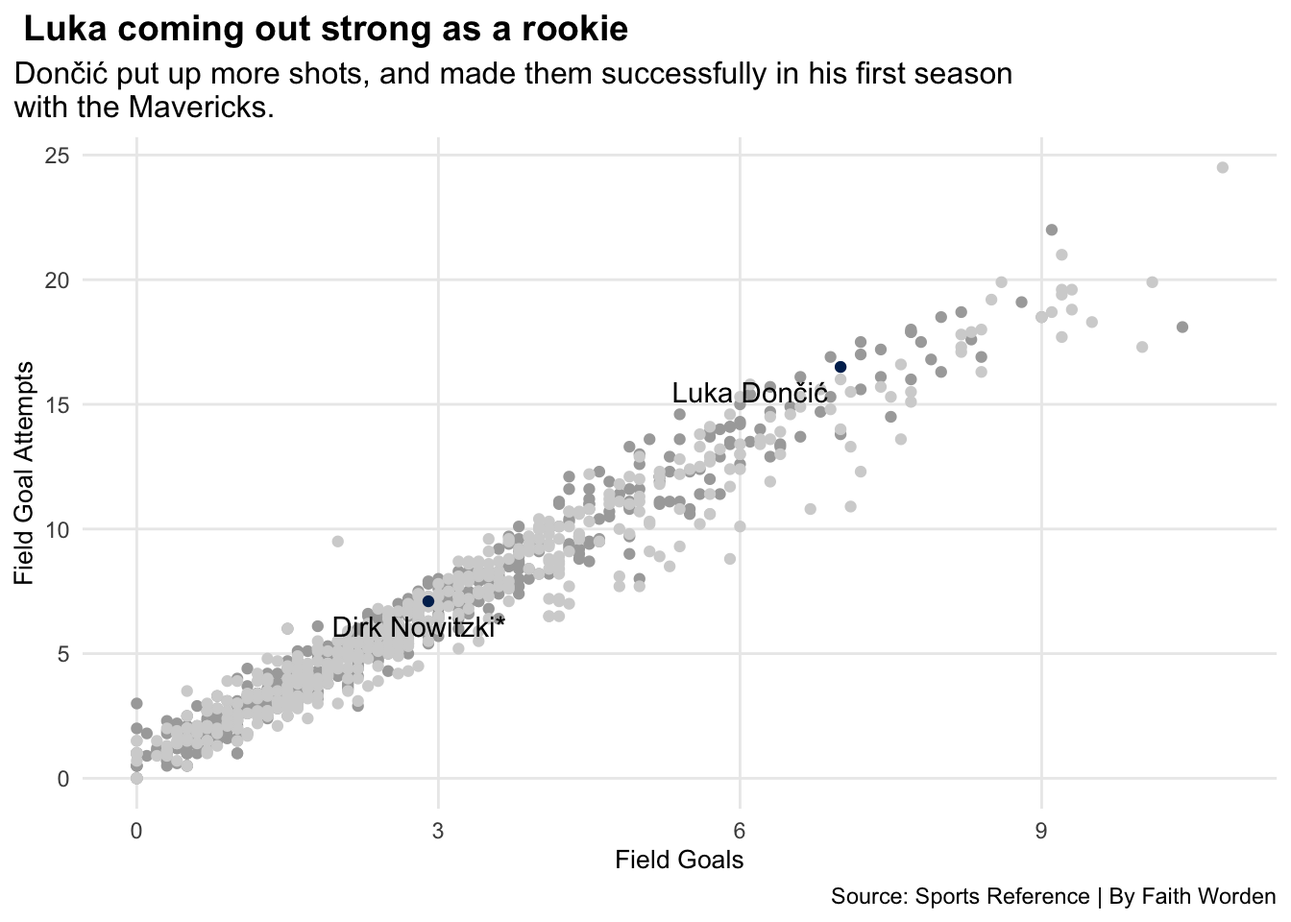
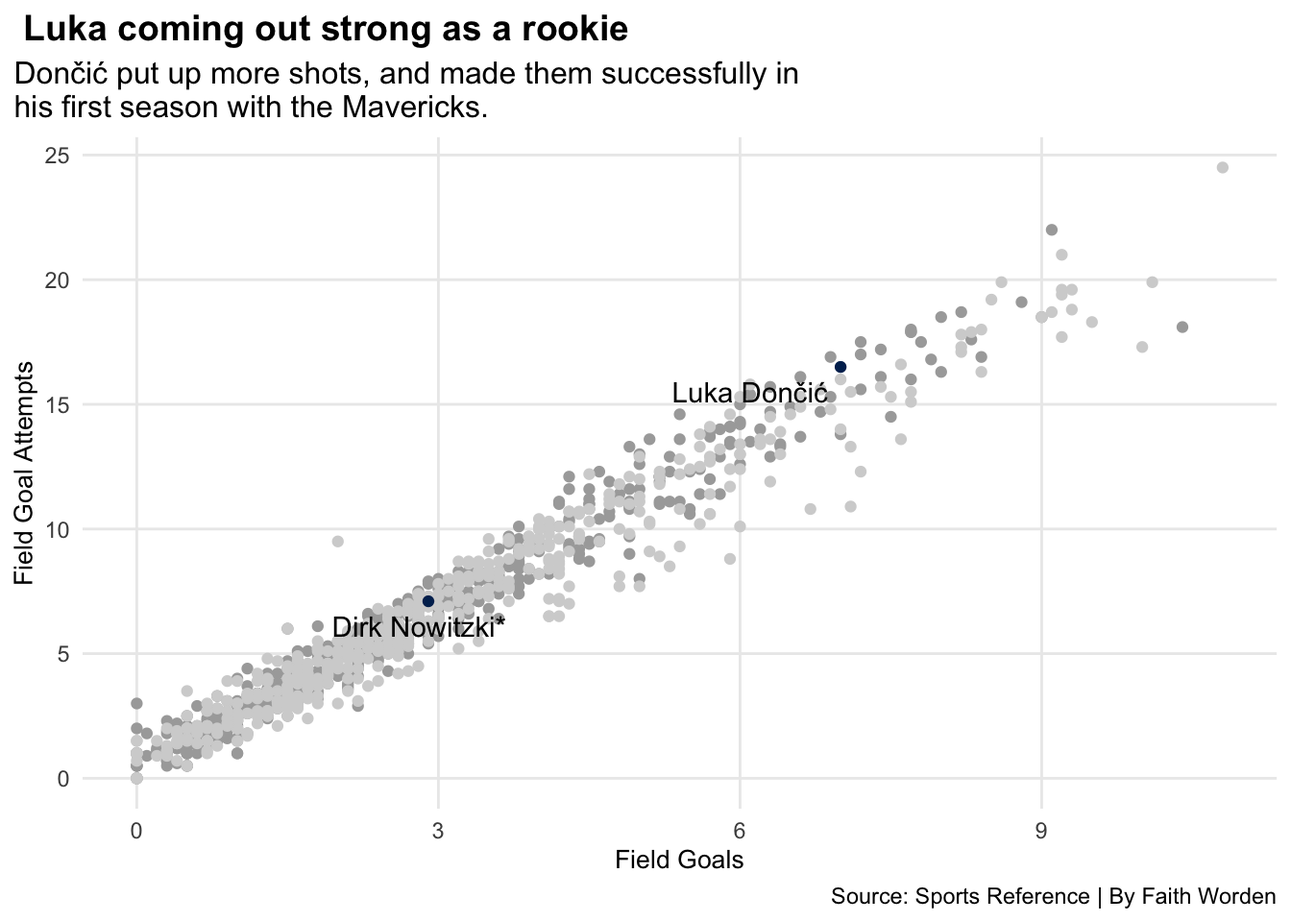
newprojmavs

Changed region(s): [[0.0, 0.0938, 0.375, 0.125], [0.625, 0.0625, 0.7812, 0.0938]]

diff --git a/posts/mavericks-is-luka-the-new-dirk/index.html b/posts/mavericks-is-luka-the-new-dirk/index.html
@@ -9,7 +9,7 @@
 <meta name="author" content="Faith Worden">
 <meta name="dcterms.date" content="2023-12-01">
 
-<title>Faith Worden’s Sports Data Blog - Change title</title>
+<title>Faith Worden’s Sports Data Blog - Can Luka Dončić fill the shoes of Mavericks legend Dirk Nowitzki?</title>
 <style>
 code{white-space: pre-wrap;}
 span.smallcaps{font-variant: small-caps;}
@@ -137,7 +137,7 @@ pre > code.sourceCode > span > a:first-child::before { text-decoration: underlin
 <header id="title-block-header" class="quarto-title-block default page-columns page-full">
   <div class="quarto-title-banner page-columns page-full">
     <div class="quarto-title column-body">
-      <h1 class="title">Change title</h1>
+      <h1 class="title">Can Luka Dončić fill the shoes of Mavericks legend Dirk Nowitzki?</h1>
                                 <div class="quarto-categories">
                 <div class="quarto-category">sports</div>
                 <div class="quarto-category">data</div>
@@ -177,14 +177,14 @@ pre > code.sourceCode > span > a:first-child::before { text-decoration: underlin
 
 
 
-<p>Here is my project. I am still finishing it out my copy and one of my codes. Here it is.</p>
+<p>Dirk Nowitzki was just a kid from Germany who grew up playing basketball. Nowitzki made the move to the states in 1998, when he was chosen as the ninth pick by the Milwaukee Bucks. His career was spent with the Dallas Mavericks after an immediate trade. Nowitzki then played 21 seasons for this franchise, and is the only NBA player to have done this. Nowtizki is known to be one of the greatest players to have ever played for the Mavericks, and to have played in the NBA. With several accomplishments and records, such as leading Dallas to their first ever championship in 2011 and the Basketball Hall of Fame, he’s had a great impact. In Dirk’s last season played, he was joined by Slovenia-native Luka Dončić. Dončić, the third pick in the 2018 NBA draft, had high expectations. He was drafted by the Atlanta Hawks, but like Nowitzki, had an immediate trade over to Dallas. In his sixth season, Dončić has already proved himself as the team’s MVP. Averaging 27.8 points per game and helping lead the team to the final four 2022, he has shown a lot of leadership and pulled out crazy stats for the team. A topic of conversation within NBA fans: can Dončić be the next Nowitzki for the team? Where is he at compared to Nowitzki’s performance? Both foreign players who entered the NBA with no college experience, a lot of people will put them head to head. Let’s dive into the question, is Dončić the new Nowitzki?</p>
 <div class="cell">
 <details>
 <summary>Code</summary>
 <div class="sourceCode cell-code" id="cb1"><pre class="sourceCode r code-with-copy"><code class="sourceCode r"><span id="cb1-1"><a href="#cb1-1" aria-hidden="true" tabindex="-1"></a><span class="fu">library</span>(tidyverse)</span>
 <span id="cb1-2"><a href="#cb1-2" aria-hidden="true" tabindex="-1"></a><span class="fu">library</span>(waffle)</span>
 <span id="cb1-3"><a href="#cb1-3" aria-hidden="true" tabindex="-1"></a><span class="fu">library</span>(ggalt)</span>
-<span id="cb1-4"><a href="#cb1-4" aria-hidden="true" tabindex="-1"></a></span>
+<span id="cb1-4"><a href="#cb1-4" aria-hidden="true" tabindex="-1"></a><span class="fu">library</span>(patchwork)</span>
 <span id="cb1-5"><a href="#cb1-5" aria-hidden="true" tabindex="-1"></a></span>
 <span id="cb1-6"><a href="#cb1-6" aria-hidden="true" tabindex="-1"></a>rookieluka <span class="ot">&lt;-</span> <span class="fu">read_csv</span>(<span class="st">"1819nba.csv"</span>) <span class="sc">|&gt;</span></span>
 <span id="cb1-7"><a href="#cb1-7" aria-hidden="true" tabindex="-1"></a><span class="fu">filter</span>(Player <span class="sc">==</span> <span class="st">"Luka Dončić"</span>)</span>
@@ -204,8 +204,8 @@ pre > code.sourceCode > span > a:first-child::before { text-decoration: underlin
 <span id="cb1-21"><a href="#cb1-21" aria-hidden="true" tabindex="-1"></a>  <span class="fu">geom_point</span>(<span class="at">data=</span>rookieluka, <span class="fu">aes</span>(<span class="at">x=</span>FG, <span class="at">y=</span>FGA), <span class="at">color=</span><span class="st">"#002B5E"</span>) <span class="sc">+</span></span>
 <span id="cb1-22"><a href="#cb1-22" aria-hidden="true" tabindex="-1"></a>   <span class="fu">geom_text</span>(<span class="at">data=</span>rookiedirk, <span class="fu">aes</span>(<span class="at">x=</span>FG<span class="fl">-.09</span>, <span class="at">y=</span>FGA<span class="dv">-1</span>, <span class="at">label=</span>Player)) <span class="sc">+</span> </span>
 <span id="cb1-23"><a href="#cb1-23" aria-hidden="true" tabindex="-1"></a>  <span class="fu">geom_text</span>(<span class="at">data=</span>rookieluka, <span class="fu">aes</span>(<span class="at">x=</span>FG<span class="fl">-.9</span>, <span class="at">y=</span>FGA<span class="dv">-1</span>, <span class="at">label=</span>Player)) <span class="sc">+</span></span>
-<span id="cb1-24"><a href="#cb1-24" aria-hidden="true" tabindex="-1"></a><span class="fu">labs</span>(<span class="at">x=</span><span class="st">"Field Goals"</span>, <span class="at">y=</span><span class="st">"Field Goal Attempts"</span>, <span class="at">title=</span><span class="st">" Luka coming out strong as a rookie"</span>, <span class="at">subtitle=</span><span class="st">"Dončić put up more shots, and made them successfully in his first season</span></span>
-<span id="cb1-25"><a href="#cb1-25" aria-hidden="true" tabindex="-1"></a><span class="st">with the Mavericks."</span>,  <span class="at">caption=</span><span class="st">"Source: Sports Reference | By Faith Worden"</span>) <span class="sc">+</span></span>
+<span id="cb1-24"><a href="#cb1-24" aria-hidden="true" tabindex="-1"></a><span class="fu">labs</span>(<span class="at">x=</span><span class="st">"Field Goals"</span>, <span class="at">y=</span><span class="st">"Field Goal Attempts"</span>, <span class="at">title=</span><span class="st">" Luka coming out strong as a rookie"</span>, <span class="at">subtitle=</span><span class="st">"Dončić put up more shots, and made them successfully in</span></span>
+<span id="cb1-25"><a href="#cb1-25" aria-hidden="true" tabindex="-1"></a><span class="st">his first season with the Mavericks."</span>,  <span class="at">caption=</span><span class="st">"Source: Sports Reference | By Faith Worden"</span>) <span class="sc">+</span></span>
 <span id="cb1-26"><a href="#cb1-26" aria-hidden="true" tabindex="-1"></a>  <span class="fu">theme_minimal</span> () <span class="sc">+</span></span>
 <span id="cb1-27"><a href="#cb1-27" aria-hidden="true" tabindex="-1"></a>  <span class="fu">theme</span>(</span>
 <span id="cb1-28"><a href="#cb1-28" aria-hidden="true" tabindex="-1"></a>  <span class="at">plot.title =</span> <span class="fu">element_text</span>(<span class="at">size =</span> <span class="dv">14</span>, <span class="at">face =</span> <span class="st">"bold"</span>),</span>
@@ -219,47 +219,237 @@ pre > code.sourceCode > span > a:first-child::before { text-decoration: underlin
 <p><img src="index_files/figure-html/unnamed-chunk-1-1.png" class="img-fluid" width="672"></p>
 </div>
 </div>
-<p>First chart. Talk about first chart here.</p>
+<p>Comparing both their rookie seasons, Luka was putting up way more shots than Dirk, and making them successfully. Luka’s field goals per game is at 7, and Dirk’s was at 2.9. Dončić is leading in putting shots up and making them, along with being in the top half of other players in the NBA for field goals as well. To note, Luka’s first season was played with Nowitzki in his last season of his career.</p>
 <div class="cell">
 <details>
 <summary>Code</summary>
-<div class="sourceCode cell-code" id="cb2"><pre class="sourceCode r code-with-copy"><code class="sourceCode r"><span id="cb2-1"><a href="#cb2-1" aria-hidden="true" tabindex="-1"></a><span class="fu">library</span>(tidyverse)</span>
-<span id="cb2-2"><a href="#cb2-2" aria-hidden="true" tabindex="-1"></a><span class="fu">library</span>(waffle)</span>
-<span id="cb2-3"><a href="#cb2-3" aria-hidden="true" tabindex="-1"></a><span class="fu">library</span>(ggalt)</span>
-<span id="cb2-4"><a href="#cb2-4" aria-hidden="true" tabindex="-1"></a></span>
-<span id="cb2-5"><a href="#cb2-5" aria-hidden="true" tabindex="-1"></a></span>
-<span id="cb2-6"><a href="#cb2-6" aria-hidden="true" tabindex="-1"></a>luka <span class="ot">&lt;-</span> <span class="fu">c</span>(<span class="st">"2P"</span><span class="ot">=</span><span class="dv">2284</span>, <span class="st">"3P"</span><span class="ot">=</span><span class="dv">978</span>, <span class="dv">7907</span>)</span>
-<span id="cb2-7"><a href="#cb2-7" aria-hidden="true" tabindex="-1"></a>dirk <span class="ot">&lt;-</span> <span class="fu">c</span>(<span class="st">"2P"</span><span class="ot">=</span><span class="dv">9187</span>, <span class="st">"3P"</span><span class="ot">=</span><span class="dv">1982</span>)</span>
-<span id="cb2-8"><a href="#cb2-8" aria-hidden="true" tabindex="-1"></a></span>
-<span id="cb2-9"><a href="#cb2-9" aria-hidden="true" tabindex="-1"></a><span class="fu">iron</span>(</span>
-<span id="cb2-10"><a href="#cb2-10" aria-hidden="true" tabindex="-1"></a><span class="fu">waffle</span>(luka<span class="sc">/</span><span class="dv">100</span>,</span>
-<span id="cb2-11"><a href="#cb2-11" aria-hidden="true" tabindex="-1"></a>        <span class="at">rows =</span> <span class="dv">5</span>,</span>
-<span id="cb2-12"><a href="#cb2-12" aria-hidden="true" tabindex="-1"></a>        <span class="at">title=</span><span class="st">"Luka's Career Points"</span>,</span>
-<span id="cb2-13"><a href="#cb2-13" aria-hidden="true" tabindex="-1"></a>       <span class="at">xlab=</span> <span class="st">"Luka Dončić | 1 square = 100 shots"</span>,</span>
-<span id="cb2-14"><a href="#cb2-14" aria-hidden="true" tabindex="-1"></a>        <span class="at">colors =</span> <span class="fu">c</span>(<span class="st">"#002B5E"</span>, <span class="st">"#B8C4CA"</span>, <span class="st">"#FFFFFF"</span>)) <span class="sc">+</span></span>
-<span id="cb2-15"><a href="#cb2-15" aria-hidden="true" tabindex="-1"></a>     <span class="fu">labs</span>(</span>
-<span id="cb2-16"><a href="#cb2-16" aria-hidden="true" tabindex="-1"></a>     <span class="at">title=</span><span class="st">"The difference 21 seasons makes"</span>, </span>
-<span id="cb2-17"><a href="#cb2-17" aria-hidden="true" tabindex="-1"></a>     <span class="at">subtitle=</span><span class="st">"Luka's putting up great numbers, but don't give him </span></span>
-<span id="cb2-18"><a href="#cb2-18" aria-hidden="true" tabindex="-1"></a><span class="st">all the credit yet."</span>) <span class="sc">+</span></span>
-<span id="cb2-19"><a href="#cb2-19" aria-hidden="true" tabindex="-1"></a>   <span class="fu">theme</span>(</span>
-<span id="cb2-20"><a href="#cb2-20" aria-hidden="true" tabindex="-1"></a>    <span class="at">plot.title =</span> <span class="fu">element_text</span>(<span class="at">size =</span> <span class="dv">14</span>, <span class="at">face =</span> <span class="st">"bold"</span>),</span>
-<span id="cb2-21"><a href="#cb2-21" aria-hidden="true" tabindex="-1"></a>    <span class="at">axis.title =</span> <span class="fu">element_text</span>(<span class="at">size =</span> <span class="dv">10</span>),</span>
-<span id="cb2-22"><a href="#cb2-22" aria-hidden="true" tabindex="-1"></a>    <span class="at">axis.title.y =</span> <span class="fu">element_blank</span>(),</span>
-<span id="cb2-23"><a href="#cb2-23" aria-hidden="true" tabindex="-1"></a>    <span class="at">plot.subtitle =</span> <span class="fu">element_text</span>(<span class="at">size=</span><span class="dv">12</span>), </span>
-<span id="cb2-24"><a href="#cb2-24" aria-hidden="true" tabindex="-1"></a>  ),</span>
-<span id="cb2-25"><a href="#cb2-25" aria-hidden="true" tabindex="-1"></a><span class="fu">waffle</span>(dirk<span class="sc">/</span><span class="dv">100</span>,</span>
-<span id="cb2-26"><a href="#cb2-26" aria-hidden="true" tabindex="-1"></a>        <span class="at">rows =</span> <span class="dv">5</span>,</span>
-<span id="cb2-27"><a href="#cb2-27" aria-hidden="true" tabindex="-1"></a>        <span class="at">xlab=</span> <span class="st">"Dirk Nowitzki | 1 square = 100 shots"</span>, </span>
-<span id="cb2-28"><a href="#cb2-28" aria-hidden="true" tabindex="-1"></a>        <span class="at">colors =</span> <span class="fu">c</span>(<span class="st">"#002B5E"</span>, <span class="st">"#B8C4CA"</span>)) <span class="sc">+</span></span>
-<span id="cb2-29"><a href="#cb2-29" aria-hidden="true" tabindex="-1"></a>       <span class="fu">labs</span>(</span>
-<span id="cb2-30"><a href="#cb2-30" aria-hidden="true" tabindex="-1"></a>         <span class="at">caption=</span><span class="st">"Source: Sports Reference | By Faith Worden"</span>)</span>
-<span id="cb2-31"><a href="#cb2-31" aria-hidden="true" tabindex="-1"></a>)</span></code><button title="Copy to Clipboard" class="code-copy-button"><i class="bi"></i></button></pre></div>
+<div class="sourceCode cell-code" id="cb2"><pre class="sourceCode r code-with-copy"><code class="sourceCode r"><span id="cb2-1"><a href="#cb2-1" aria-hidden="true" tabindex="-1"></a><span class="fu">read_csv</span>(<span class="st">"playertotals0809.csv"</span>)</span></code><button title="Copy to Clipboard" class="code-copy-button"><i class="bi"></i></button></pre></div>
+</details>
+<div class="cell-output cell-output-stdout">
+<pre><code># A tibble: 500 × 30
+      Rk Player      Pos     Age Tm        G    GS    MP    FG   FGA `FG%`  `3P`
+   &lt;dbl&gt; &lt;chr&gt;       &lt;chr&gt; &lt;dbl&gt; &lt;chr&gt; &lt;dbl&gt; &lt;dbl&gt; &lt;dbl&gt; &lt;dbl&gt; &lt;dbl&gt; &lt;dbl&gt; &lt;dbl&gt;
+ 1     1 Alex Acker  SG       26 TOT      25     0   199    30    76 0.395     7
+ 2     1 Alex Acker  SG       26 DET       7     0    20     4    11 0.364     0
+ 3     1 Alex Acker  SG       26 LAC      18     0   179    26    65 0.4       7
+ 4     2 Hassan Ada… SG       24 TOR      12     0    52     4    13 0.308     0
+ 5     3 Arron Affl… SG       23 DET      74     8  1234   131   300 0.437    43
+ 6     4 Maurice Ag… SG       24 NJN      20     0    97    15    43 0.349     0
+ 7     5 Blake Ahea… PG       24 SAS       3     0    19     2     6 0.333     2
+ 8     6 Alexis Aji… PF       20 CHA      31     4   182    25    69 0.362     0
+ 9     7 LaMarcus A… PF       23 POR      81    81  3004   601  1243 0.484     7
+10     8 Joe Alexan… SF       22 MIL      59     0   716   102   245 0.416    16
+# ℹ 490 more rows
+# ℹ 18 more variables: `3PA` &lt;dbl&gt;, `3P%` &lt;dbl&gt;, `2P` &lt;dbl&gt;, `2PA` &lt;dbl&gt;,
+#   `2P%` &lt;dbl&gt;, `eFG%` &lt;dbl&gt;, FT &lt;dbl&gt;, FTA &lt;dbl&gt;, `FT%` &lt;dbl&gt;, ORB &lt;dbl&gt;,
+#   DRB &lt;dbl&gt;, TRB &lt;dbl&gt;, AST &lt;dbl&gt;, STL &lt;dbl&gt;, BLK &lt;dbl&gt;, TOV &lt;dbl&gt;, PF &lt;dbl&gt;,
+#   PTS &lt;dbl&gt;</code></pre>
+</div>
+<details>
+<summary>Code</summary>
+<div class="sourceCode cell-code" id="cb4"><pre class="sourceCode r code-with-copy"><code class="sourceCode r"><span id="cb4-1"><a href="#cb4-1" aria-hidden="true" tabindex="-1"></a><span class="fu">read_csv</span>(<span class="st">"playertotals0910.csv"</span>)</span></code><button title="Copy to Clipboard" class="code-copy-button"><i class="bi"></i></button></pre></div>
+</details>
+<div class="cell-output cell-output-stdout">
+<pre><code># A tibble: 500 × 30
+      Rk Player      Pos     Age Tm        G    GS    MP    FG   FGA `FG%`  `3P`
+   &lt;dbl&gt; &lt;chr&gt;       &lt;chr&gt; &lt;dbl&gt; &lt;chr&gt; &lt;dbl&gt; &lt;dbl&gt; &lt;dbl&gt; &lt;dbl&gt; &lt;dbl&gt; &lt;dbl&gt; &lt;dbl&gt;
+ 1     1 Arron Affl… SG       24 DEN      82    75  2221   272   585 0.465   108
+ 2     2 Alexis Aji… C        21 CHA       6     0    30     5    10 0.5       0
+ 3     3 LaMarcus A… PF       24 POR      78    78  2922   579  1169 0.495     5
+ 4     4 Joe Alexan… SF       23 CHI       8     0    29     1     6 0.167     0
+ 5     5 Malik Allen PF       31 DEN      51     3   456    46   116 0.397     1
+ 6     6 Ray Allen*  SG       34 BOS      80    80  2819   464   973 0.477   145
+ 7     7 Tony Allen  SG       28 BOS      54     8   889   129   253 0.51      0
+ 8     8 Rafer Alst… PG       33 TOT      52    38  1421   155   446 0.348    58
+ 9     8 Rafer Alst… PG       33 NJN      27    13   766    95   277 0.343    28
+10     8 Rafer Alst… PG       33 MIA      25    25   655    60   169 0.355    30
+# ℹ 490 more rows
+# ℹ 18 more variables: `3PA` &lt;dbl&gt;, `3P%` &lt;dbl&gt;, `2P` &lt;dbl&gt;, `2PA` &lt;dbl&gt;,
+#   `2P%` &lt;dbl&gt;, `eFG%` &lt;dbl&gt;, FT &lt;dbl&gt;, FTA &lt;dbl&gt;, `FT%` &lt;dbl&gt;, ORB &lt;dbl&gt;,
+#   DRB &lt;dbl&gt;, TRB &lt;dbl&gt;, AST &lt;dbl&gt;, STL &lt;dbl&gt;, BLK &lt;dbl&gt;, TOV &lt;dbl&gt;, PF &lt;dbl&gt;,
+#   PTS &lt;dbl&gt;</code></pre>
+</div>
+<details>
+<summary>Code</summary>
+<div class="sourceCode cell-code" id="cb6"><pre class="sourceCode r code-with-copy"><code class="sourceCode r"><span id="cb6-1"><a href="#cb6-1" aria-hidden="true" tabindex="-1"></a><span class="fu">read_csv</span>(<span class="st">"totals1920.csv"</span>)</span></code><button title="Copy to Clipboard" class="code-copy-button"><i class="bi"></i></button></pre></div>
+</details>
+<div class="cell-output cell-output-stdout">
+<pre><code># A tibble: 500 × 30
+      Rk Player      Pos     Age Tm        G    GS    MP    FG   FGA `FG%`  `3P`
+   &lt;dbl&gt; &lt;chr&gt;       &lt;chr&gt; &lt;dbl&gt; &lt;chr&gt; &lt;dbl&gt; &lt;dbl&gt; &lt;dbl&gt; &lt;dbl&gt; &lt;dbl&gt; &lt;dbl&gt; &lt;dbl&gt;
+ 1     1 Steven Ada… C        26 OKC      63    63  1680   283   478 0.592     1
+ 2     2 Bam Adebayo PF       22 MIA      72    72  2417   440   790 0.557     2
+ 3     3 LaMarcus A… C        34 SAS      53    53  1754   391   793 0.493    61
+ 4     4 Kyle Alexa… C        23 MIA       2     0    13     1     2 0.5       0
+ 5     5 Nickeil Al… SG       21 NOP      47     1   591    98   266 0.368    46
+ 6     6 Grayson Al… SG       24 MEM      38     0   718   117   251 0.466    57
+ 7     7 Jarrett Al… C        21 BRK      70    64  1852   302   465 0.649     0
+ 8     8 Kadeem All… PG       27 NYK      10     0   117    19    44 0.432     5
+ 9     9 Al-Farouq … PF       29 ORL      18     2   380    25    86 0.291     9
+10    10 Justin And… SG       26 BRK      10     1   107    10    38 0.263     6
+# ℹ 490 more rows
+# ℹ 18 more variables: `3PA` &lt;dbl&gt;, `3P%` &lt;dbl&gt;, `2P` &lt;dbl&gt;, `2PA` &lt;dbl&gt;,
+#   `2P%` &lt;dbl&gt;, `eFG%` &lt;dbl&gt;, FT &lt;dbl&gt;, FTA &lt;dbl&gt;, `FT%` &lt;dbl&gt;, ORB &lt;dbl&gt;,
+#   DRB &lt;dbl&gt;, TRB &lt;dbl&gt;, AST &lt;dbl&gt;, STL &lt;dbl&gt;, BLK &lt;dbl&gt;, TOV &lt;dbl&gt;, PF &lt;dbl&gt;,
+#   PTS &lt;dbl&gt;</code></pre>
+</div>
+<details>
+<summary>Code</summary>
+<div class="sourceCode cell-code" id="cb8"><pre class="sourceCode r code-with-copy"><code class="sourceCode r"><span id="cb8-1"><a href="#cb8-1" aria-hidden="true" tabindex="-1"></a><span class="fu">read_csv</span>(<span class="st">"totals2021.csv"</span>)</span></code><button title="Copy to Clipboard" class="code-copy-button"><i class="bi"></i></button></pre></div>
+</details>
+<div class="cell-output cell-output-stdout">
+<pre><code># A tibble: 500 × 30
+      Rk Player      Pos     Age Tm        G    GS    MP    FG   FGA `FG%`  `3P`
+   &lt;dbl&gt; &lt;chr&gt;       &lt;chr&gt; &lt;dbl&gt; &lt;chr&gt; &lt;dbl&gt; &lt;dbl&gt; &lt;dbl&gt; &lt;dbl&gt; &lt;dbl&gt; &lt;dbl&gt; &lt;dbl&gt;
+ 1     1 Precious A… PF       21 MIA      61     4   737   124   228 0.544     0
+ 2     2 Jaylen Ada… PG       24 MIL       7     0    18     1     8 0.125     0
+ 3     3 Steven Ada… C        27 NOP      58    58  1605   189   308 0.614     0
+ 4     4 Bam Adebayo C        23 MIA      64    64  2143   456   800 0.57      2
+ 5     5 LaMarcus A… C        35 TOT      26    23   674   140   296 0.473    31
+ 6     5 LaMarcus A… C        35 SAS      21    18   544   115   248 0.464    27
+ 7     5 LaMarcus A… C        35 BRK       5     5   130    25    48 0.521     4
+ 8     6 Ty-Shon Al… SG       22 PHO      15     0    47     3    12 0.25      2
+ 9     7 Nickeil Al… SG       22 NOP      46    13  1007   192   458 0.419    76
+10     8 Grayson Al… SG       25 MEM      50    38  1259   173   414 0.418   107
+# ℹ 490 more rows
+# ℹ 18 more variables: `3PA` &lt;dbl&gt;, `3P%` &lt;dbl&gt;, `2P` &lt;dbl&gt;, `2PA` &lt;dbl&gt;,
+#   `2P%` &lt;dbl&gt;, `eFG%` &lt;dbl&gt;, FT &lt;dbl&gt;, FTA &lt;dbl&gt;, `FT%` &lt;dbl&gt;, ORB &lt;dbl&gt;,
+#   DRB &lt;dbl&gt;, TRB &lt;dbl&gt;, AST &lt;dbl&gt;, STL &lt;dbl&gt;, BLK &lt;dbl&gt;, TOV &lt;dbl&gt;, PF &lt;dbl&gt;,
+#   PTS &lt;dbl&gt;</code></pre>
+</div>
+<details>
+<summary>Code</summary>
+<div class="sourceCode cell-code" id="cb10"><pre class="sourceCode r code-with-copy"><code class="sourceCode r"><span id="cb10-1"><a href="#cb10-1" aria-hidden="true" tabindex="-1"></a>nba0809 <span class="ot">&lt;-</span> <span class="fu">read_csv</span>(<span class="st">"playertotals0809.csv"</span>) <span class="sc">|&gt;</span></span>
+<span id="cb10-2"><a href="#cb10-2" aria-hidden="true" tabindex="-1"></a><span class="fu">mutate</span>(<span class="at">Season =</span> <span class="dv">2009</span>) </span>
+<span id="cb10-3"><a href="#cb10-3" aria-hidden="true" tabindex="-1"></a></span>
+<span id="cb10-4"><a href="#cb10-4" aria-hidden="true" tabindex="-1"></a>nba0910 <span class="ot">&lt;-</span> <span class="fu">read_csv</span>(<span class="st">"playertotals0910.csv"</span>) <span class="sc">|&gt;</span></span>
+<span id="cb10-5"><a href="#cb10-5" aria-hidden="true" tabindex="-1"></a><span class="fu">mutate</span>(<span class="at">Season =</span> <span class="dv">2010</span>)</span>
+<span id="cb10-6"><a href="#cb10-6" aria-hidden="true" tabindex="-1"></a></span>
+<span id="cb10-7"><a href="#cb10-7" aria-hidden="true" tabindex="-1"></a>nba1920 <span class="ot">&lt;-</span> <span class="fu">read_csv</span>(<span class="st">"totals1920.csv"</span>) <span class="sc">|&gt;</span></span>
+<span id="cb10-8"><a href="#cb10-8" aria-hidden="true" tabindex="-1"></a><span class="fu">mutate</span>(<span class="at">Season =</span> <span class="dv">2020</span>)</span>
+<span id="cb10-9"><a href="#cb10-9" aria-hidden="true" tabindex="-1"></a></span>
+<span id="cb10-10"><a href="#cb10-10" aria-hidden="true" tabindex="-1"></a>nba2021 <span class="ot">&lt;-</span> <span class="fu">read_csv</span>(<span class="st">"totals2021.csv"</span>) <span class="sc">|&gt;</span></span>
+<span id="cb10-11"><a href="#cb10-11" aria-hidden="true" tabindex="-1"></a><span class="fu">mutate</span>(<span class="at">Season =</span> <span class="dv">2021</span>)</span>
+<span id="cb10-12"><a href="#cb10-12" aria-hidden="true" tabindex="-1"></a></span>
+<span id="cb10-13"><a href="#cb10-13" aria-hidden="true" tabindex="-1"></a>dirk0809 <span class="ot">&lt;-</span> nba0809 <span class="sc">|&gt;</span></span>
+<span id="cb10-14"><a href="#cb10-14" aria-hidden="true" tabindex="-1"></a><span class="fu">filter</span>(Player <span class="sc">==</span> <span class="st">"Dirk Nowitzki*"</span>) <span class="sc">|&gt;</span></span>
+<span id="cb10-15"><a href="#cb10-15" aria-hidden="true" tabindex="-1"></a><span class="fu">mutate</span>(<span class="at">Season =</span> <span class="st">"2009"</span>)</span>
+<span id="cb10-16"><a href="#cb10-16" aria-hidden="true" tabindex="-1"></a></span>
+<span id="cb10-17"><a href="#cb10-17" aria-hidden="true" tabindex="-1"></a>dirk0910 <span class="ot">&lt;-</span> nba0910 <span class="sc">|&gt;</span></span>
+<span id="cb10-18"><a href="#cb10-18" aria-hidden="true" tabindex="-1"></a><span class="fu">filter</span>(Player <span class="sc">==</span> <span class="st">"Dirk Nowitzki*"</span>) <span class="sc">|&gt;</span></span>
+<span id="cb10-19"><a href="#cb10-19" aria-hidden="true" tabindex="-1"></a><span class="fu">mutate</span>(<span class="at">Season =</span> <span class="st">"2009-2010"</span>)</span>
+<span id="cb10-20"><a href="#cb10-20" aria-hidden="true" tabindex="-1"></a></span>
+<span id="cb10-21"><a href="#cb10-21" aria-hidden="true" tabindex="-1"></a>luka1920 <span class="ot">&lt;-</span> nba1920 <span class="sc">|&gt;</span></span>
+<span id="cb10-22"><a href="#cb10-22" aria-hidden="true" tabindex="-1"></a><span class="fu">filter</span>(Player <span class="sc">==</span> <span class="st">"Luka Dončić"</span>) <span class="sc">|&gt;</span></span>
+<span id="cb10-23"><a href="#cb10-23" aria-hidden="true" tabindex="-1"></a><span class="fu">mutate</span>(<span class="at">Season =</span> <span class="st">"2019-2020"</span>)</span>
+<span id="cb10-24"><a href="#cb10-24" aria-hidden="true" tabindex="-1"></a></span>
+<span id="cb10-25"><a href="#cb10-25" aria-hidden="true" tabindex="-1"></a>luka2021 <span class="ot">&lt;-</span> nba2021 <span class="sc">|&gt;</span></span>
+<span id="cb10-26"><a href="#cb10-26" aria-hidden="true" tabindex="-1"></a><span class="fu">filter</span>(Player <span class="sc">==</span> <span class="st">"Luka Dončić"</span>) <span class="sc">|&gt;</span></span>
+<span id="cb10-27"><a href="#cb10-27" aria-hidden="true" tabindex="-1"></a><span class="fu">mutate</span>(<span class="at">Season =</span> <span class="st">"2020-2021"</span>)</span>
+<span id="cb10-28"><a href="#cb10-28" aria-hidden="true" tabindex="-1"></a></span>
+<span id="cb10-29"><a href="#cb10-29" aria-hidden="true" tabindex="-1"></a>nba0809 <span class="ot">&lt;-</span> <span class="fu">read_csv</span>(<span class="st">"playertotals0809.csv"</span>) <span class="sc">|&gt;</span></span>
+<span id="cb10-30"><a href="#cb10-30" aria-hidden="true" tabindex="-1"></a><span class="fu">mutate</span>(<span class="at">Season =</span> <span class="dv">2009</span>)</span>
+<span id="cb10-31"><a href="#cb10-31" aria-hidden="true" tabindex="-1"></a></span>
+<span id="cb10-32"><a href="#cb10-32" aria-hidden="true" tabindex="-1"></a>nba0910 <span class="ot">&lt;-</span> <span class="fu">read_csv</span>(<span class="st">"playertotals0910.csv"</span>) <span class="sc">|&gt;</span></span>
+<span id="cb10-33"><a href="#cb10-33" aria-hidden="true" tabindex="-1"></a><span class="fu">mutate</span>(<span class="at">Season =</span> <span class="dv">2010</span>)</span>
+<span id="cb10-34"><a href="#cb10-34" aria-hidden="true" tabindex="-1"></a></span>
+<span id="cb10-35"><a href="#cb10-35" aria-hidden="true" tabindex="-1"></a>nba0810slope <span class="ot">&lt;-</span><span class="fu">bind_rows</span>(nba0809, nba0910) <span class="sc">|&gt;</span></span>
+<span id="cb10-36"><a href="#cb10-36" aria-hidden="true" tabindex="-1"></a><span class="fu">filter</span>(MP <span class="sc">&gt;</span> <span class="dv">2500</span>)</span>
+<span id="cb10-37"><a href="#cb10-37" aria-hidden="true" tabindex="-1"></a></span>
+<span id="cb10-38"><a href="#cb10-38" aria-hidden="true" tabindex="-1"></a>dirk0810 <span class="ot">&lt;-</span> nba0810slope <span class="sc">|&gt;</span></span>
+<span id="cb10-39"><a href="#cb10-39" aria-hidden="true" tabindex="-1"></a><span class="fu">filter</span>(Player <span class="sc">==</span> <span class="st">"Dirk Nowitzki*"</span>)</span>
+<span id="cb10-40"><a href="#cb10-40" aria-hidden="true" tabindex="-1"></a></span>
+<span id="cb10-41"><a href="#cb10-41" aria-hidden="true" tabindex="-1"></a>slope1 <span class="ot">&lt;-</span> <span class="fu">ggplot</span>() <span class="sc">+</span></span>
+<span id="cb10-42"><a href="#cb10-42" aria-hidden="true" tabindex="-1"></a>  <span class="fu">geom_line</span>(<span class="at">data=</span>nba0810slope, <span class="fu">aes</span>(<span class="at">x=</span>Season, <span class="at">y=</span>DRB, <span class="at">group=</span>Player), <span class="at">color=</span><span class="st">"grey"</span>) <span class="sc">+</span></span>
+<span id="cb10-43"><a href="#cb10-43" aria-hidden="true" tabindex="-1"></a>  <span class="fu">geom_point</span>(<span class="at">data=</span>nba0810slope, <span class="fu">aes</span>(<span class="at">x=</span>Season, <span class="at">y=</span>DRB, <span class="at">group=</span>Player), <span class="at">color=</span><span class="st">"grey"</span>) <span class="sc">+</span></span>
+<span id="cb10-44"><a href="#cb10-44" aria-hidden="true" tabindex="-1"></a>  <span class="fu">geom_line</span>(<span class="at">data=</span>dirk0810, <span class="fu">aes</span>(<span class="at">x=</span>Season, <span class="at">y=</span>DRB, <span class="at">group=</span>Player), <span class="at">color=</span><span class="st">"#002B5E"</span>) <span class="sc">+</span></span>
+<span id="cb10-45"><a href="#cb10-45" aria-hidden="true" tabindex="-1"></a>  <span class="fu">geom_point</span>(<span class="at">data=</span>dirk0810, <span class="fu">aes</span>(<span class="at">x=</span>Season, <span class="at">y=</span>DRB, <span class="at">group=</span>Player), <span class="at">color=</span><span class="st">"#002B5E"</span>) <span class="sc">+</span></span>
+<span id="cb10-46"><a href="#cb10-46" aria-hidden="true" tabindex="-1"></a>   <span class="fu">geom_text</span>(<span class="at">data=</span>dirk0810 <span class="sc">|&gt;</span> <span class="fu">filter</span>(Season <span class="sc">==</span> <span class="fu">max</span>(Season)), <span class="fu">aes</span>(<span class="at">x=</span>Season <span class="sc">+</span> .<span class="dv">3</span>, <span class="at">y=</span>DRB, <span class="at">label=</span>Player)) <span class="sc">+</span></span>
+<span id="cb10-47"><a href="#cb10-47" aria-hidden="true" tabindex="-1"></a>  <span class="fu">geom_text</span>(<span class="at">data=</span>dirk0810 <span class="sc">|&gt;</span> <span class="fu">filter</span>(Season <span class="sc">==</span> <span class="fu">min</span>(Season)), <span class="fu">aes</span>(<span class="at">x=</span>Season <span class="sc">-</span> .<span class="dv">3</span>, <span class="at">y=</span>DRB, <span class="at">label=</span>Player)) <span class="sc">+</span></span>
+<span id="cb10-48"><a href="#cb10-48" aria-hidden="true" tabindex="-1"></a>  <span class="fu">scale_x_continuous</span>(<span class="at">breaks=</span><span class="fu">c</span>(<span class="dv">2008</span>, <span class="dv">2010</span>), <span class="at">limits=</span><span class="fu">c</span>(<span class="fl">2008.5</span>,<span class="fl">2010.5</span>))  <span class="sc">+</span></span>
+<span id="cb10-49"><a href="#cb10-49" aria-hidden="true" tabindex="-1"></a>  <span class="fu">theme_minimal</span>()</span>
+<span id="cb10-50"><a href="#cb10-50" aria-hidden="true" tabindex="-1"></a></span>
+<span id="cb10-51"><a href="#cb10-51" aria-hidden="true" tabindex="-1"></a>nba1920 <span class="ot">&lt;-</span> <span class="fu">read_csv</span>(<span class="st">"totals1920.csv"</span>) <span class="sc">|&gt;</span></span>
+<span id="cb10-52"><a href="#cb10-52" aria-hidden="true" tabindex="-1"></a><span class="fu">mutate</span>(<span class="at">Season =</span> <span class="dv">2020</span>)</span>
+<span id="cb10-53"><a href="#cb10-53" aria-hidden="true" tabindex="-1"></a></span>
+<span id="cb10-54"><a href="#cb10-54" aria-hidden="true" tabindex="-1"></a>nba2021 <span class="ot">&lt;-</span> <span class="fu">read_csv</span>(<span class="st">"totals2021.csv"</span>) <span class="sc">|&gt;</span></span>
+<span id="cb10-55"><a href="#cb10-55" aria-hidden="true" tabindex="-1"></a><span class="fu">mutate</span>(<span class="at">Season =</span> <span class="dv">2021</span>)</span>
+<span id="cb10-56"><a href="#cb10-56" aria-hidden="true" tabindex="-1"></a></span>
+<span id="cb10-57"><a href="#cb10-57" aria-hidden="true" tabindex="-1"></a>nba1921slope <span class="ot">&lt;-</span><span class="fu">bind_rows</span>(nba1920, nba2021) <span class="sc">|&gt;</span></span>
+<span id="cb10-58"><a href="#cb10-58" aria-hidden="true" tabindex="-1"></a><span class="fu">filter</span>(MP <span class="sc">&gt;</span> <span class="dv">2000</span>)</span>
+<span id="cb10-59"><a href="#cb10-59" aria-hidden="true" tabindex="-1"></a></span>
+<span id="cb10-60"><a href="#cb10-60" aria-hidden="true" tabindex="-1"></a>luka2021 <span class="ot">&lt;-</span> nba1921slope <span class="sc">|&gt;</span></span>
+<span id="cb10-61"><a href="#cb10-61" aria-hidden="true" tabindex="-1"></a><span class="fu">filter</span>(Player <span class="sc">==</span> <span class="st">"Luka Dončić"</span>)</span>
+<span id="cb10-62"><a href="#cb10-62" aria-hidden="true" tabindex="-1"></a></span>
+<span id="cb10-63"><a href="#cb10-63" aria-hidden="true" tabindex="-1"></a>slope2 <span class="ot">&lt;-</span> <span class="fu">ggplot</span>() <span class="sc">+</span></span>
+<span id="cb10-64"><a href="#cb10-64" aria-hidden="true" tabindex="-1"></a>  <span class="fu">geom_line</span>(<span class="at">data=</span>nba1921slope, <span class="fu">aes</span>(<span class="at">x=</span>Season, <span class="at">y=</span>DRB, <span class="at">group=</span>Player), <span class="at">color=</span><span class="st">"grey"</span>) <span class="sc">+</span></span>
+<span id="cb10-65"><a href="#cb10-65" aria-hidden="true" tabindex="-1"></a>  <span class="fu">geom_point</span>(<span class="at">data=</span>nba1921slope, <span class="fu">aes</span>(<span class="at">x=</span>Season, <span class="at">y=</span>DRB, <span class="at">group=</span>Player), <span class="at">color=</span><span class="st">"grey"</span>) <span class="sc">+</span></span>
+<span id="cb10-66"><a href="#cb10-66" aria-hidden="true" tabindex="-1"></a>  <span class="fu">geom_line</span>(<span class="at">data=</span>luka2021, <span class="fu">aes</span>(<span class="at">x=</span>Season, <span class="at">y=</span>DRB, <span class="at">group=</span>Player), <span class="at">color=</span><span class="st">"#002B5E"</span>) <span class="sc">+</span></span>
+<span id="cb10-67"><a href="#cb10-67" aria-hidden="true" tabindex="-1"></a>  <span class="fu">geom_point</span>(<span class="at">data=</span>luka2021, <span class="fu">aes</span>(<span class="at">x=</span>Season, <span class="at">y=</span>DRB, <span class="at">group=</span>Player), <span class="at">color=</span><span class="st">"#002B5E"</span>) <span class="sc">+</span></span>
+<span id="cb10-68"><a href="#cb10-68" aria-hidden="true" tabindex="-1"></a>  <span class="fu">geom_text</span>(<span class="at">data=</span>luka2021 <span class="sc">|&gt;</span> <span class="fu">filter</span>(Season <span class="sc">==</span> <span class="fu">max</span>(Season)), <span class="fu">aes</span>(<span class="at">x=</span>Season <span class="sc">+</span> .<span class="dv">3</span>, <span class="at">y=</span>DRB, <span class="at">label=</span>Player)) <span class="sc">+</span> </span>
+<span id="cb10-69"><a href="#cb10-69" aria-hidden="true" tabindex="-1"></a>  <span class="fu">geom_text</span>(<span class="at">data=</span>luka2021 <span class="sc">|&gt;</span> <span class="fu">filter</span>(Season <span class="sc">==</span> <span class="fu">min</span>(Season)), <span class="fu">aes</span>(<span class="at">x=</span>Season <span class="sc">-</span> .<span class="dv">3</span>, <span class="at">y=</span>DRB, <span class="at">label=</span>Player)) <span class="sc">+</span> </span>
+<span id="cb10-70"><a href="#cb10-70" aria-hidden="true" tabindex="-1"></a>  <span class="fu">scale_x_continuous</span>(<span class="at">breaks=</span><span class="fu">c</span>(<span class="dv">2019</span>, <span class="dv">2021</span>), <span class="at">limits=</span><span class="fu">c</span>(<span class="fl">2019.5</span>,<span class="fl">2021.5</span>))  <span class="sc">+</span></span>
+<span id="cb10-71"><a href="#cb10-71" aria-hidden="true" tabindex="-1"></a>  <span class="fu">theme_minimal</span>()</span>
+<span id="cb10-72"><a href="#cb10-72" aria-hidden="true" tabindex="-1"></a></span>
+<span id="cb10-73"><a href="#cb10-73" aria-hidden="true" tabindex="-1"></a>slope1 <span class="sc">+</span> slope2 <span class="sc">+</span></span>
+<span id="cb10-74"><a href="#cb10-74" aria-hidden="true" tabindex="-1"></a>  <span class="fu">plot_annotation</span>(</span>
+<span id="cb10-75"><a href="#cb10-75" aria-hidden="true" tabindex="-1"></a>    <span class="at">title =</span> <span class="st">"Dončić and Nowitzki putting up the defensive stats"</span>,</span>
+<span id="cb10-76"><a href="#cb10-76" aria-hidden="true" tabindex="-1"></a>    <span class="at">subtitle =</span> <span class="st">"Dirk is a strong defensive player, leading Dončić in rebounding"</span>,</span>
+<span id="cb10-77"><a href="#cb10-77" aria-hidden="true" tabindex="-1"></a>    <span class="at">caption =</span> <span class="st">"Source: Sports Reference | By Faith Worden"</span></span>
+<span id="cb10-78"><a href="#cb10-78" aria-hidden="true" tabindex="-1"></a>  ) <span class="sc">&amp;</span> </span>
+<span id="cb10-79"><a href="#cb10-79" aria-hidden="true" tabindex="-1"></a>  <span class="fu">theme</span>(</span>
+<span id="cb10-80"><a href="#cb10-80" aria-hidden="true" tabindex="-1"></a>    <span class="at">plot.title =</span> <span class="fu">element_text</span>(<span class="at">size =</span> <span class="dv">20</span>, <span class="at">face =</span> <span class="st">"bold"</span>),</span>
+<span id="cb10-81"><a href="#cb10-81" aria-hidden="true" tabindex="-1"></a>    <span class="at">axis.title =</span> <span class="fu">element_text</span>(<span class="at">size =</span> <span class="dv">12</span>), </span>
+<span id="cb10-82"><a href="#cb10-82" aria-hidden="true" tabindex="-1"></a>    <span class="at">plot.subtitle =</span> <span class="fu">element_text</span>(<span class="at">size=</span><span class="dv">16</span>), </span>
+<span id="cb10-83"><a href="#cb10-83" aria-hidden="true" tabindex="-1"></a>    <span class="at">panel.grid.minor =</span> <span class="fu">element_blank</span>()</span>
+<span id="cb10-84"><a href="#cb10-84" aria-hidden="true" tabindex="-1"></a>  )</span></code><button title="Copy to Clipboard" class="code-copy-button"><i class="bi"></i></button></pre></div>
 </details>
 <div class="cell-output-display">
-<p><img src="index_files/figure-html/unnamed-chunk-2-1.png" class="img-fluid" width="672"></p>
+<p><img src="index_files/figure-html/unnamed-chunk-2-1.png" class="img-fluid" width="864"></p>
 </div>
 </div>
-<p>Here is my final chart here is where I will talk about it.</p>
+<p>Now, we’re looking into the middle of both their careers. How are Dončić and Nowtizki doing defensively? It’s important to have a strong rebounder because it gives your team a good defense, limits the offense of the other team, and gives your team possession of the ball and opportunity to score. Though Nowitzki may be known for a strong offense and his one-leg fadeaway shot, he’s contributed defensively and has been able to take possession of the ball. Nowitzki’s defensive rebounding declined overtime. Dončić’s has slightly as well, but has remained more consistent.</p>
+<div class="cell">
+<details>
+<summary>Code</summary>
+<div class="sourceCode cell-code" id="cb11"><pre class="sourceCode r code-with-copy"><code class="sourceCode r"><span id="cb11-1"><a href="#cb11-1" aria-hidden="true" tabindex="-1"></a><span class="fu">library</span>(tidyverse)</span>
+<span id="cb11-2"><a href="#cb11-2" aria-hidden="true" tabindex="-1"></a><span class="fu">library</span>(waffle)</span>
+<span id="cb11-3"><a href="#cb11-3" aria-hidden="true" tabindex="-1"></a><span class="fu">library</span>(ggalt)</span>
+<span id="cb11-4"><a href="#cb11-4" aria-hidden="true" tabindex="-1"></a></span>
+<span id="cb11-5"><a href="#cb11-5" aria-hidden="true" tabindex="-1"></a></span>
+<span id="cb11-6"><a href="#cb11-6" aria-hidden="true" tabindex="-1"></a>luka <span class="ot">&lt;-</span> <span class="fu">c</span>(<span class="st">"2P"</span><span class="ot">=</span><span class="dv">2284</span>, <span class="st">"3P"</span><span class="ot">=</span><span class="dv">978</span>, <span class="dv">7907</span>)</span>
+<span id="cb11-7"><a href="#cb11-7" aria-hidden="true" tabindex="-1"></a>dirk <span class="ot">&lt;-</span> <span class="fu">c</span>(<span class="st">"2P"</span><span class="ot">=</span><span class="dv">9187</span>, <span class="st">"3P"</span><span class="ot">=</span><span class="dv">1982</span>)</span>
+<span id="cb11-8"><a href="#cb11-8" aria-hidden="true" tabindex="-1"></a></span>
+<span id="cb11-9"><a href="#cb11-9" aria-hidden="true" tabindex="-1"></a><span class="fu">iron</span>(</span>
+<span id="cb11-10"><a href="#cb11-10" aria-hidden="true" tabindex="-1"></a><span class="fu">waffle</span>(luka<span class="sc">/</span><span class="dv">100</span>,</span>
+<span id="cb11-11"><a href="#cb11-11" aria-hidden="true" tabindex="-1"></a>        <span class="at">rows =</span> <span class="dv">5</span>,</span>
+<span id="cb11-12"><a href="#cb11-12" aria-hidden="true" tabindex="-1"></a>        <span class="at">title=</span><span class="st">"Luka's Career Points"</span>,</span>
+<span id="cb11-13"><a href="#cb11-13" aria-hidden="true" tabindex="-1"></a>       <span class="at">xlab=</span> <span class="st">"Luka Dončić | 1 square = 100 shots"</span>,</span>
+<span id="cb11-14"><a href="#cb11-14" aria-hidden="true" tabindex="-1"></a>        <span class="at">colors =</span> <span class="fu">c</span>(<span class="st">"#002B5E"</span>, <span class="st">"#B8C4CA"</span>, <span class="st">"#FFFFFF"</span>)) <span class="sc">+</span></span>
+<span id="cb11-15"><a href="#cb11-15" aria-hidden="true" tabindex="-1"></a>     <span class="fu">labs</span>(</span>
+<span id="cb11-16"><a href="#cb11-16" aria-hidden="true" tabindex="-1"></a>     <span class="at">title=</span><span class="st">"The difference 21 seasons makes"</span>, </span>
+<span id="cb11-17"><a href="#cb11-17" aria-hidden="true" tabindex="-1"></a>     <span class="at">subtitle=</span><span class="st">"Luka's putting up great numbers, but don't give him </span></span>
+<span id="cb11-18"><a href="#cb11-18" aria-hidden="true" tabindex="-1"></a><span class="st">all the credit yet."</span>) <span class="sc">+</span></span>
+<span id="cb11-19"><a href="#cb11-19" aria-hidden="true" tabindex="-1"></a>   <span class="fu">theme</span>(</span>
+<span id="cb11-20"><a href="#cb11-20" aria-hidden="true" tabindex="-1"></a>    <span class="at">plot.title =</span> <span class="fu">element_text</span>(<span class="at">size =</span> <span class="dv">14</span>, <span class="at">face =</span> <span class="st">"bold"</span>),</span>
+<span id="cb11-21"><a href="#cb11-21" aria-hidden="true" tabindex="-1"></a>    <span class="at">axis.title =</span> <span class="fu">element_text</span>(<span class="at">size =</span> <span class="dv">10</span>),</span>
+<span id="cb11-22"><a href="#cb11-22" aria-hidden="true" tabindex="-1"></a>    <span class="at">axis.title.y =</span> <span class="fu">element_blank</span>(),</span>
+<span id="cb11-23"><a href="#cb11-23" aria-hidden="true" tabindex="-1"></a>    <span class="at">plot.subtitle =</span> <span class="fu">element_text</span>(<span class="at">size=</span><span class="dv">12</span>), </span>
+<span id="cb11-24"><a href="#cb11-24" aria-hidden="true" tabindex="-1"></a>  ),</span>
+<span id="cb11-25"><a href="#cb11-25" aria-hidden="true" tabindex="-1"></a><span class="fu">waffle</span>(dirk<span class="sc">/</span><span class="dv">100</span>,</span>
+<span id="cb11-26"><a href="#cb11-26" aria-hidden="true" tabindex="-1"></a>        <span class="at">rows =</span> <span class="dv">5</span>,</span>
+<span id="cb11-27"><a href="#cb11-27" aria-hidden="true" tabindex="-1"></a>        <span class="at">xlab=</span> <span class="st">"Dirk Nowitzki | 1 square = 100 shots"</span>, </span>
+<span id="cb11-28"><a href="#cb11-28" aria-hidden="true" tabindex="-1"></a>        <span class="at">colors =</span> <span class="fu">c</span>(<span class="st">"#002B5E"</span>, <span class="st">"#B8C4CA"</span>)) <span class="sc">+</span></span>
+<span id="cb11-29"><a href="#cb11-29" aria-hidden="true" tabindex="-1"></a>       <span class="fu">labs</span>(</span>
+<span id="cb11-30"><a href="#cb11-30" aria-hidden="true" tabindex="-1"></a>         <span class="at">caption=</span><span class="st">"Source: Sports Reference | By Faith Worden"</span>)</span>
+<span id="cb11-31"><a href="#cb11-31" aria-hidden="true" tabindex="-1"></a>)</span></code><button title="Copy to Clipboard" class="code-copy-button"><i class="bi"></i></button></pre></div>
+</details>
+<div class="cell-output-display">
+<p><img src="index_files/figure-html/unnamed-chunk-3-1.png" class="img-fluid" width="672"></p>
+</div>
+</div>
+<p>Let’s take a look into both of the Mavericks’ stars’ career statistics. Both players are putting up more two-pointer’s than three’s. Dončić hasn’t even gotten to half of Nowitzki’s two points and three point shots in his career total, but he’s at a decent spot. It’s going to take years to get to a level that someone once was at 21 seasons, but Dončić is crawling up close.</p>
+<p>After all, Dončić has been compared to Nowitzki his whole career. Is Dončić going to pull a Nowitzki and stay loyal to Dallas his whole career? Will Luka beat this and that record and surpass Dirk in different stats? What will it take for Dončić to pass Nowitzki as the best, most successful player to come from the Mavericks’ franchise? Don’t crown Dončić quite yet, but his statistics are showing that he is a successful offensive player and he has been coming out hot, even with only playing for less than 10 seasons.</p>
 
 
 

diff --git a/index.html b/index.html
@@ -165,14 +165,14 @@ ul.task-list li input[type="checkbox"] {
 
 <div class="quarto-listing quarto-listing-container-default" id="listing-listing">
 <div class="list quarto-listing-default">
-<div class="quarto-post image-right" data-index="0" data-categories="sports,data,code" data-listing-date-sort="1701410400000" data-listing-file-modified-sort="1701451010183" data-listing-date-modified-sort="NaN" data-listing-reading-time-sort="2">
+<div class="quarto-post image-right" data-index="0" data-categories="sports,data,code" data-listing-date-sort="1701410400000" data-listing-file-modified-sort="1701661225491" data-listing-date-modified-sort="NaN" data-listing-reading-time-sort="7">
 <div class="thumbnail">
 <p><a href="./posts/mavericks-is-luka-the-new-dirk/index.html"> <img src="./posts/mavericks-is-luka-the-new-dirk/image.png" class="thumbnail-image"> </a></p>
 </div>
 <div class="body">
 <a href="./posts/mavericks-is-luka-the-new-dirk/index.html">
 <h3 class="no-anchor listing-title">
-Change title
+Can Luka Dončić fill the shoes of Mavericks legend Dirk Nowitzki?
 </h3>
 <div class="listing-subtitle">
 
@@ -191,7 +191,7 @@ code
 </div>
 <a href="./posts/mavericks-is-luka-the-new-dirk/index.html">
 <div class="listing-description">
-Here is my project. I am still finishing it out my copy and one of my codes. Here it is.
+Dirk Nowitzki was just a kid from Germany who grew up playing basketball. Nowitzki made the move to the states in 1998, when he was chosen as the ninth pick by the Milwaukee…
 </div>
 </a>
 </div>
